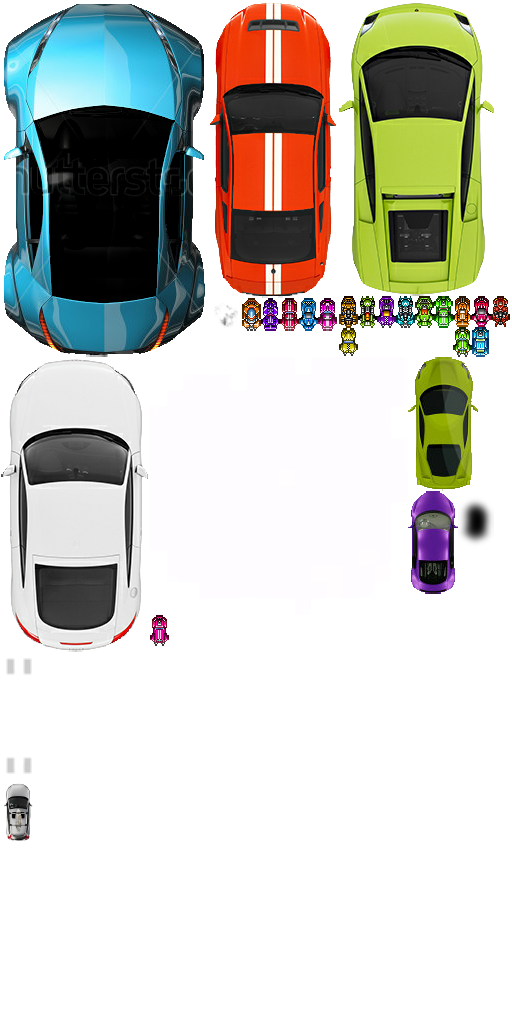
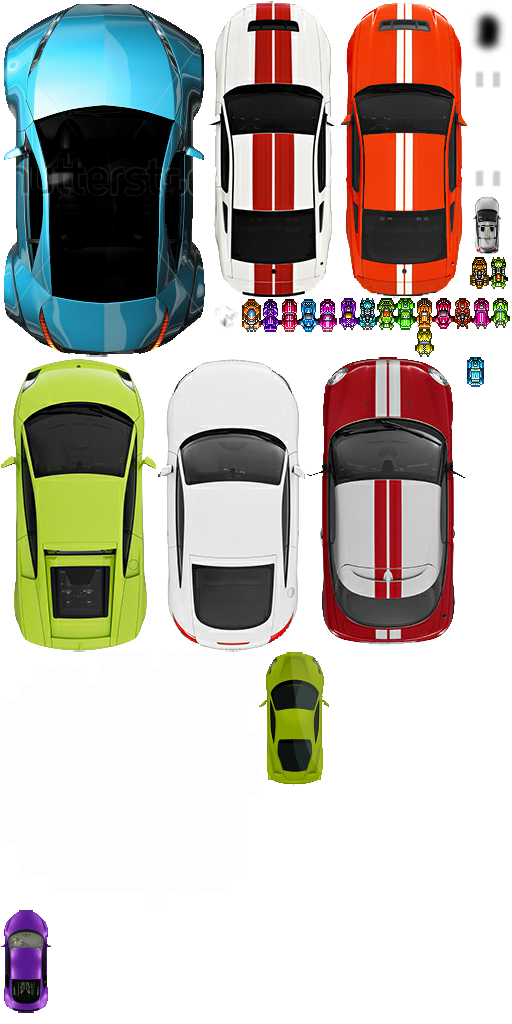
Added/refactored some presets, fixed PlayerCar.
[fixed] Animators should respect bloom/vignette/zoom configuration.
[fixed] PlayerCar should compute input on normalized coordinates.

diff --git a/uracer-desktop/src/com/bitfire/uracer/game/logic/post/animators/AggressiveCold.java b/uracer-desktop/src/com/bitfire/uracer/game/logic/post/animators/AggressiveCold.java
@@ -31,15 +31,19 @@ public class AggressiveCold implements Animator {
 	}
 
 	@Override
-	public void reset() {
-		float threshold = ((gameWorld.isNightMode() && !Config.Graphics.DumbNightMode) ? 0.2f : 0.45f);
-		Bloom.Settings bloomSettings = new Bloom.Settings( "subtle", Config.PostProcessing.BlurType, 1, 1.5f, threshold, 1f, 0.5f, 1f, 1.5f );
-		bloom.setSettings( bloomSettings );
+	public final void reset() {
+		if( Config.PostProcessing.EnableBloom ) {
+			float threshold = ((gameWorld.isNightMode() && !Config.Graphics.DumbNightMode) ? 0.2f : 0.45f);
+			Bloom.Settings bloomSettings = new Bloom.Settings( "subtle", Config.PostProcessing.BlurType, 1, 1.5f, threshold, 1f, 0.5f, 1f, 1.5f );
+			bloom.setSettings( bloomSettings );
+		}
 
-		vignette.setCoords( 0.8f, 0.45f );
-		vignette.setCenter( Gdx.graphics.getWidth() / 2, Gdx.graphics.getHeight() / 2 );
-		vignette.setLut( Art.postXpro );
-		vignette.setEnabled( true );
+		if( Config.PostProcessing.EnableVignetting ) {
+			vignette.setCoords( 0.8f, 0.45f );
+			vignette.setCenter( Gdx.graphics.getWidth() / 2, Gdx.graphics.getHeight() / 2 );
+			vignette.setLut( Art.postXpro );
+			vignette.setEnabled( true );
+		}
 	}
 
 	@Override
@@ -53,17 +57,15 @@ public class AggressiveCold implements Animator {
 
 		if( Config.PostProcessing.EnableZoomBlur && player != null ) {
 			zoom.setOrigin( playerScreenPos );
-			zoom.setStrength( -0.05f * factor
-					* player.driftState.driftStrength
-					);
+			zoom.setStrength( -0.05f * factor * player.driftState.driftStrength );
 		}
 
 		if( Config.PostProcessing.EnableBloom ) {
 			bloom.setBaseSaturation( 0.5f - 0.2f * factor );
-//			bloom.setBloomSaturation( 1.5f - factor * 0.85f );	// TODO when charged
-//			bloom.setBloomSaturation( 1.5f - factor * 1.5f );	// TODO when completely discharged
+			// bloom.setBloomSaturation( 1.5f - factor * 0.85f ); // TODO when charged
+			// bloom.setBloomSaturation( 1.5f - factor * 1.5f ); // TODO when completely discharged
 			bloom.setBloomSaturation( 1.5f - factor * 1.25f );
-			bloom.setBaseIntesity( 1f + factor * 0.1f  );
+			bloom.setBaseIntesity( 1f + factor * 0.1f );
 			bloom.setBloomIntesity( 1f + factor * 0.2f );
 		}
 
@@ -76,8 +78,8 @@ public class AggressiveCold implements Animator {
 				vignette.setSaturationMul( 1f + factor * 0.5f );
 			}
 
-//			vignette.setCenter( playerScreenPos.x, playerScreenPos.y );
-//			vignette.setCoords( 1.2f, 0.1f );
+			// vignette.setCenter( playerScreenPos.x, playerScreenPos.y );
+			// vignette.setCoords( 1.2f, 0.1f );
 
 			vignette.setLutIntensity( factor );
 			vignette.setLutIndex( 12 );

diff --git a/uracer-desktop/src/com/bitfire/uracer/game/player/PlayerCar.java b/uracer-desktop/src/com/bitfire/uracer/game/player/PlayerCar.java
@@ -19,6 +19,7 @@ import com.bitfire.uracer.game.world.models.WorldDefs.TileLayer;
 import com.bitfire.uracer.resources.Art;
 import com.bitfire.uracer.utils.AMath;
 import com.bitfire.uracer.utils.Convert;
+import com.bitfire.uracer.utils.VMath;
 
 public class PlayerCar extends Car {
 
@@ -33,7 +34,7 @@ public class PlayerCar extends Car {
 	private CarInput carInput = null;
 	private Vector2 touchPos = new Vector2();
 	private Vector2 carPos = new Vector2();
-	// private final float invWidth = 1f / Gdx.graphics.getWidth(), invHeight = 1f / Gdx.graphics.getHeight();
+	private final float invWidth = 1f / Gdx.graphics.getWidth(), invHeight = 1f / Gdx.graphics.getHeight();
 	// private float scaleInputX, scaleInputY;
 	private WindowedMean frictionMean = new WindowedMean( 10 );
 
@@ -114,22 +115,18 @@ public class PlayerCar extends Car {
 
 		if( carInput.updated ) {
 
-			// normalize and apply relaxing on input position (scaling) in one single mul op, target resolution should
-			// be good
-			// relaxing mean steering will be a little "softer" instead of being "hard", try use invWidth/invHeight
-			// instead
-			// to get a glimpse on the differenceS
-			// carPos.x *= scaleInputX;
-			// carPos.y *= scaleInputY;
-			// touchPos.x *= scaleInputX;
-			// touchPos.y *= scaleInputY;
+			// compute steer angle first
+			carInput.steerAngle = transformSteerAngle( (float)Math.atan2( -carPos.x + touchPos.x, -carPos.y + touchPos.y ) );
 
-			// Gdx.app.log( "PlayerCar", carPos.x + "-" + carPos.y );
-			// VMath.clamp( touchPos, 0, strategy.referenceResolution.x, 0, strategy.referenceResolution.y );
-			// VMath.clamp( carPos, 0, strategy.referenceResolution.x, 0, strategy.referenceResolution.y );
+			// normalize positions and compute final throttle
+			touchPos.x *= invWidth;
+			touchPos.y *= invHeight;
+			carPos.x *= invWidth;
+			carPos.y *= invHeight;
+			VMath.clamp( touchPos, 0, 1 );
+			VMath.clamp( carPos, 0, 1 );
 
 			carInput.throttle = touchPos.dst( carPos ) * 4 * preset.model.max_force;
-			carInput.steerAngle = transformSteerAngle( (float)Math.atan2( -carPos.x + touchPos.x, -carPos.y + touchPos.y ) );
 		}
 
 		return carInput;

diff --git a/uracer-desktop/src/com/bitfire/uracer/game/logic/GameLogic.java b/uracer-desktop/src/com/bitfire/uracer/game/logic/GameLogic.java
@@ -9,7 +9,6 @@ import aurelienribon.tweenengine.equations.Quad;
 
 import com.badlogic.gdx.Gdx;
 import com.badlogic.gdx.Input.Keys;
-import com.badlogic.gdx.utils.TimeUtils;
 import com.bitfire.uracer.ScalingStrategy;
 import com.bitfire.uracer.URacer;
 import com.bitfire.uracer.configuration.Config;
@@ -79,7 +78,7 @@ public class GameLogic implements CarEvent.Listener, CarStateEvent.Listener, Pla
 	private PlayerTasks playerTasks = null;
 
 	// handles timeModulationBusy onComplete event
-	private long timeModStart = 0;
+//	private long timeModStart = 0;
 	private boolean timeModulation = false;
 	private BoxedFloat timeMultiplier = new BoxedFloat();
 	private Timeline seqIn, seqOut;
@@ -89,7 +88,7 @@ public class GameLogic implements CarEvent.Listener, CarStateEvent.Listener, Pla
 		public void onEvent( int type, BaseTween<?> source ) {
 			switch( type ) {
 			case COMPLETE:
-				Gdx.app.log( "GameLogic", "Time modulation ended (took " + (TimeUtils.nanoTime() - timeModStart) + ")" );
+//				Gdx.app.log( "GameLogic", "Time modulation ended (took " + (TimeUtils.nanoTime() - timeModStart) + ")" );
 			}
 		}
 	};
@@ -115,7 +114,7 @@ public class GameLogic implements CarEvent.Listener, CarStateEvent.Listener, Pla
 		// post-processing
 		postProcessing = new PostProcessing( gameWorld, gameRenderer );
 		postProcessing.createAnimators();
-		postProcessing.enableAnimator( "AggressiveWarm" );
+		postProcessing.enableAnimator( "AggressiveCold" );
 		Gdx.app.log( "GameLogic", "Post-processing animators created" );
 
 		// main game tasks
@@ -386,7 +385,7 @@ public class GameLogic implements CarEvent.Listener, CarStateEvent.Listener, Pla
 			TweenEquation eqOut = Quad.INOUT;
 
 			timeModulation = !timeModulation;
-			timeModStart = TimeUtils.nanoTime();
+//			timeModStart = TimeUtils.nanoTime();
 
 			if( timeModulation ) {
 

diff --git a/uracer-desktop/src/com/bitfire/uracer/game/actors/CarPreset.java b/uracer-desktop/src/com/bitfire/uracer/game/actors/CarPreset.java
@@ -18,7 +18,9 @@ public final class CarPreset {
 		Model2( "spider" ),
 		AudiTTSCoupe2011( "audi-tts-coupe-2011" ),
 		FordMustangShelbyGt500Coupe( "ford-mustang-shelby-gt500-coupe" ),
+		FordMustangShelbyGt500White( "ford-mustang-shelby-gt500-white" ),
 		LamborghiniGallardoLP560( "lamborghini-gallardo-lp560" ),
+		CooperMiniCoupe( "cooper-mini-coupe" ),
 		SportCar( "sport-car" ),
 		SportMasek( "sport-masek" ),
 		SportStella( "sport-stella" ),
@@ -42,19 +44,28 @@ public final class CarPreset {
 			model.toDefault();
 			break;
 
+		case CooperMiniCoupe:
+			model.toModel2();
+			model.width = 2.5f;
+			model.length = model.width * 1.6f;
+			break;
+
+		case FordMustangShelbyGt500White:
 		case FordMustangShelbyGt500Coupe:
 			model.toModel2();
 			model.width = 2.5f;
 			model.length = 4.3f;
+			model.max_force = 350f;
+			model.max_grip = 6f;
 			break;
 
 		case LamborghiniGallardoLP560:
 			model.toModel2();
 			model.width = 2.5f;
 			model.length = 4.3f;
-			model.friction = 2f;
-			model.restitution = 0.3f;
-			model.max_speed = 40f;
+			model.friction = 8f;
+			model.restitution = 0.2f;
+			model.max_force = 400f;
 			model.max_grip = 5f;
 			break;
 
@@ -69,7 +80,7 @@ public final class CarPreset {
 		case SportCar:
 			model.toModel2();
 			model.width = 2.5f;
-			model.length = model.width * 1.7353f;
+			model.length = 4.3f;
 			model.friction = 2f;
 			model.restitution = 0.3f;
 			break;
@@ -85,7 +96,7 @@ public final class CarPreset {
 		case SportStella:
 			model.toModel2();
 			model.width = 2.5f;
-			model.length = model.width * 1.8857f;
+			model.length = 4.3f;
 			model.friction = 2f;
 			model.restitution = 0.3f;
 			break;

diff --git a/uracer-desktop/src/com/bitfire/uracer/game/logic/post/animators/AggressiveWarm.java b/uracer-desktop/src/com/bitfire/uracer/game/logic/post/animators/AggressiveWarm.java
@@ -29,14 +29,18 @@ public class AggressiveWarm implements Animator {
 
 	@Override
 	public void reset() {
-		float threshold = ((gameWorld.isNightMode() && !Config.Graphics.DumbNightMode) ? 0.2f : 0.45f);
-		Bloom.Settings bloomSettings = new Bloom.Settings( "subtle", Config.PostProcessing.BlurType, 1, 1.5f, threshold, 1f, 0.5f, 1f, 1.5f );
-		bloom.setSettings( bloomSettings );
+		if( Config.PostProcessing.EnableBloom ) {
+			float threshold = ((gameWorld.isNightMode() && !Config.Graphics.DumbNightMode) ? 0.2f : 0.45f);
+			Bloom.Settings bloomSettings = new Bloom.Settings( "subtle", Config.PostProcessing.BlurType, 1, 1.5f, threshold, 1f, 0.5f, 1f, 1.5f );
+			bloom.setSettings( bloomSettings );
+		}
 
-		vignette.setCoords( 0.75f, 0.4f );
-		vignette.setCenter( Gdx.graphics.getWidth() / 2, Gdx.graphics.getHeight() / 2 );
-		vignette.setLut( Art.postXpro );
-		vignette.setEnabled( true );
+		if( Config.PostProcessing.EnableVignetting ) {
+			vignette.setCoords( 0.75f, 0.4f );
+			vignette.setCenter( Gdx.graphics.getWidth() / 2, Gdx.graphics.getHeight() / 2 );
+			vignette.setLut( Art.postXpro );
+			vignette.setEnabled( true );
+		}
 	}
 
 	@Override

diff --git a/uracer-desktop/src/com/bitfire/uracer/GameScreen.java b/uracer-desktop/src/com/bitfire/uracer/GameScreen.java
@@ -19,7 +19,7 @@ public class GameScreen extends Screen {
 		game = new Game( levelName, scalingStrategy, GameDifficulty.Hard );
 
 		// simulate the player choosing a car type
-		game.setPlayer( Type.FordMustangShelbyGt500Coupe );
+		game.setPlayer( Type.CooperMiniCoupe );
 
 		// simulate the player choosing local playing
 		Replay r = Replay.loadLocal( levelName );

diff --git a/uracer-desktop/src/com/bitfire/uracer/configuration/Config.java b/uracer-desktop/src/com/bitfire/uracer/configuration/Config.java
@@ -146,7 +146,7 @@ public final class Config {
 		public static void asDefault() {
 
 			UseDebugHelper = true;
-			RenderBox2DWorldWireframe = Config.isDesktop;
+			RenderBox2DWorldWireframe = false;
 			RenderPlayerDebugInfo = Config.isDesktop;
 			RenderHudDebugInfo = Config.isDesktop;
 			RenderDebugInfoFpsStats = true;
